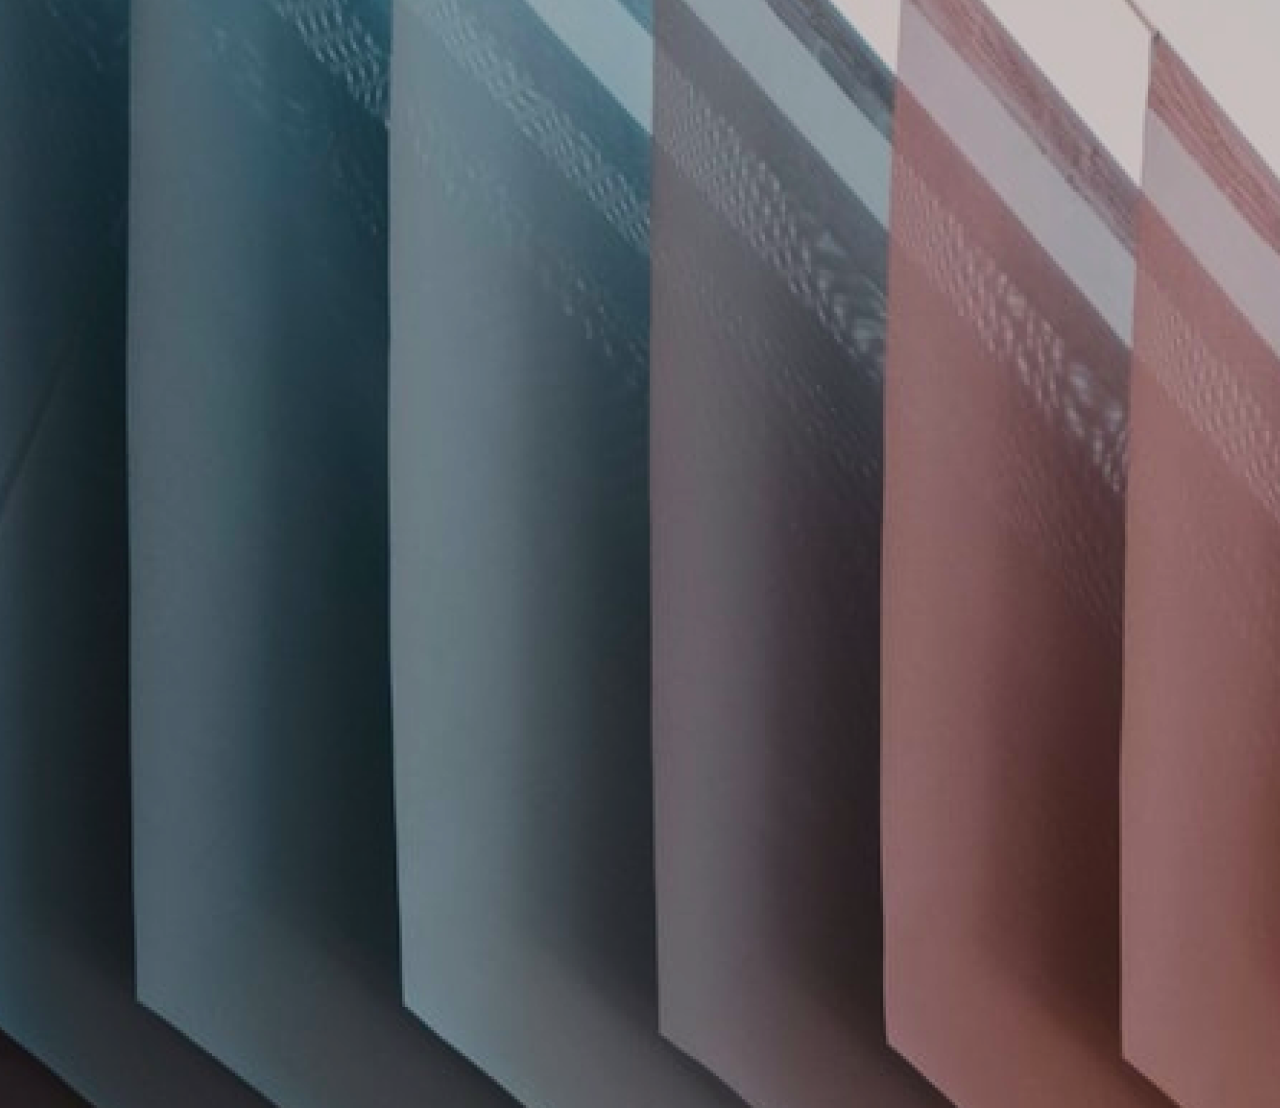
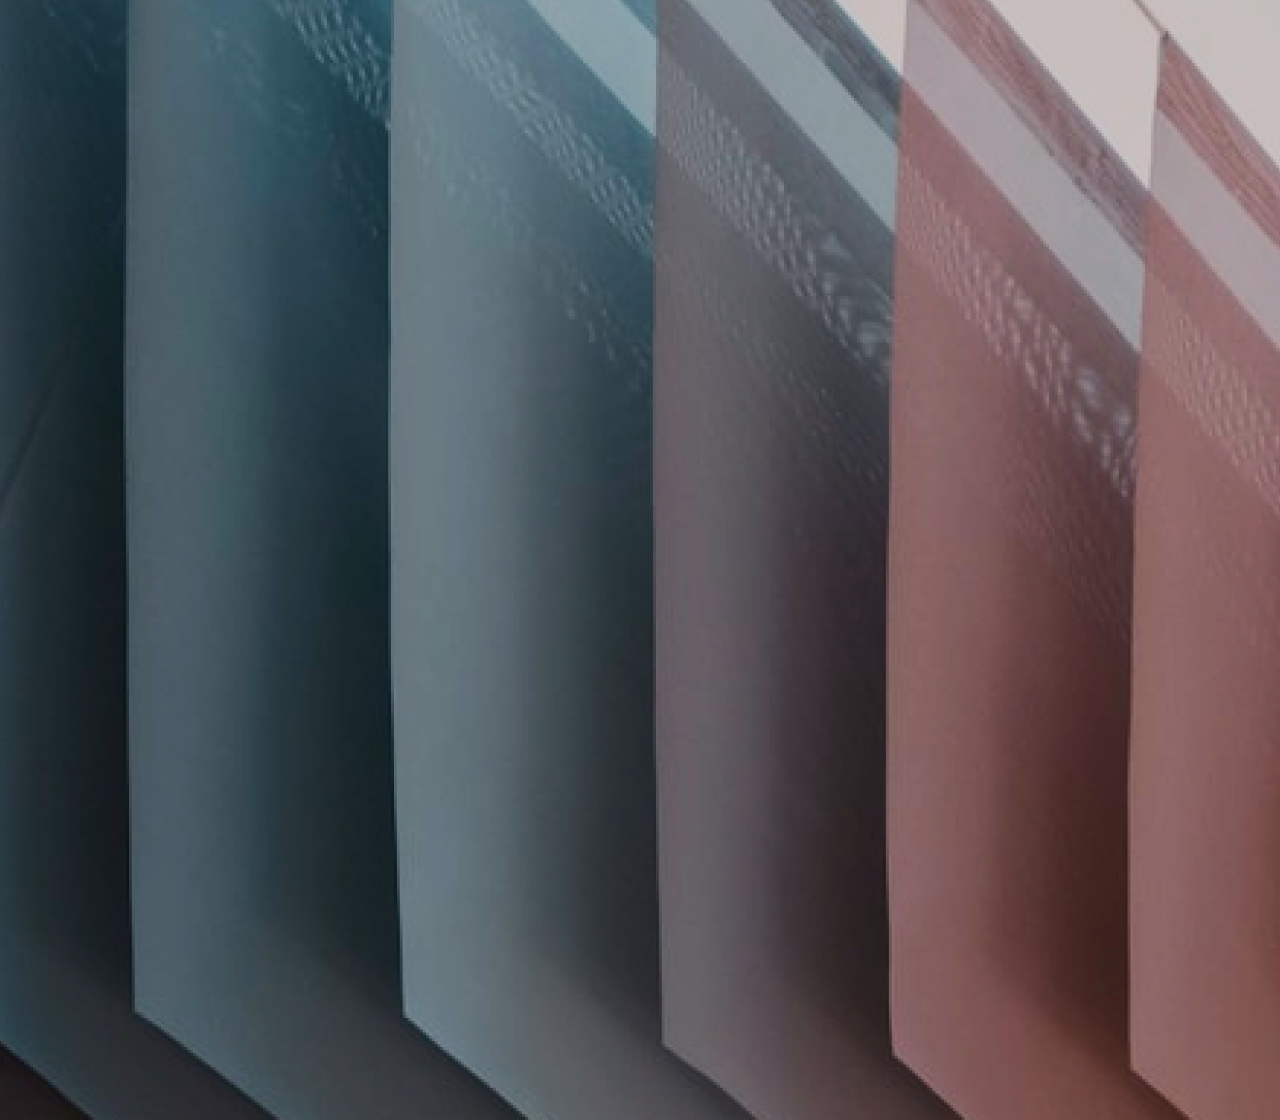
add: 이미지 파일 추가 및 변경

diff --git a/assets/index.ts b/assets/index.ts
@@ -25,3 +25,5 @@ export { default as ic_nav_indi } from "./ic_nav_indi.svg";
 export { default as paypal } from "./paypal.svg";
 export { default as btn_web_back } from "./btn_web_back.svg";
 export { default as garbage } from "./garbage.svg";
+export { default as btn_review } from "./btn_review.svg";
+export { default as ic_info } from "./ic_info.svg";
